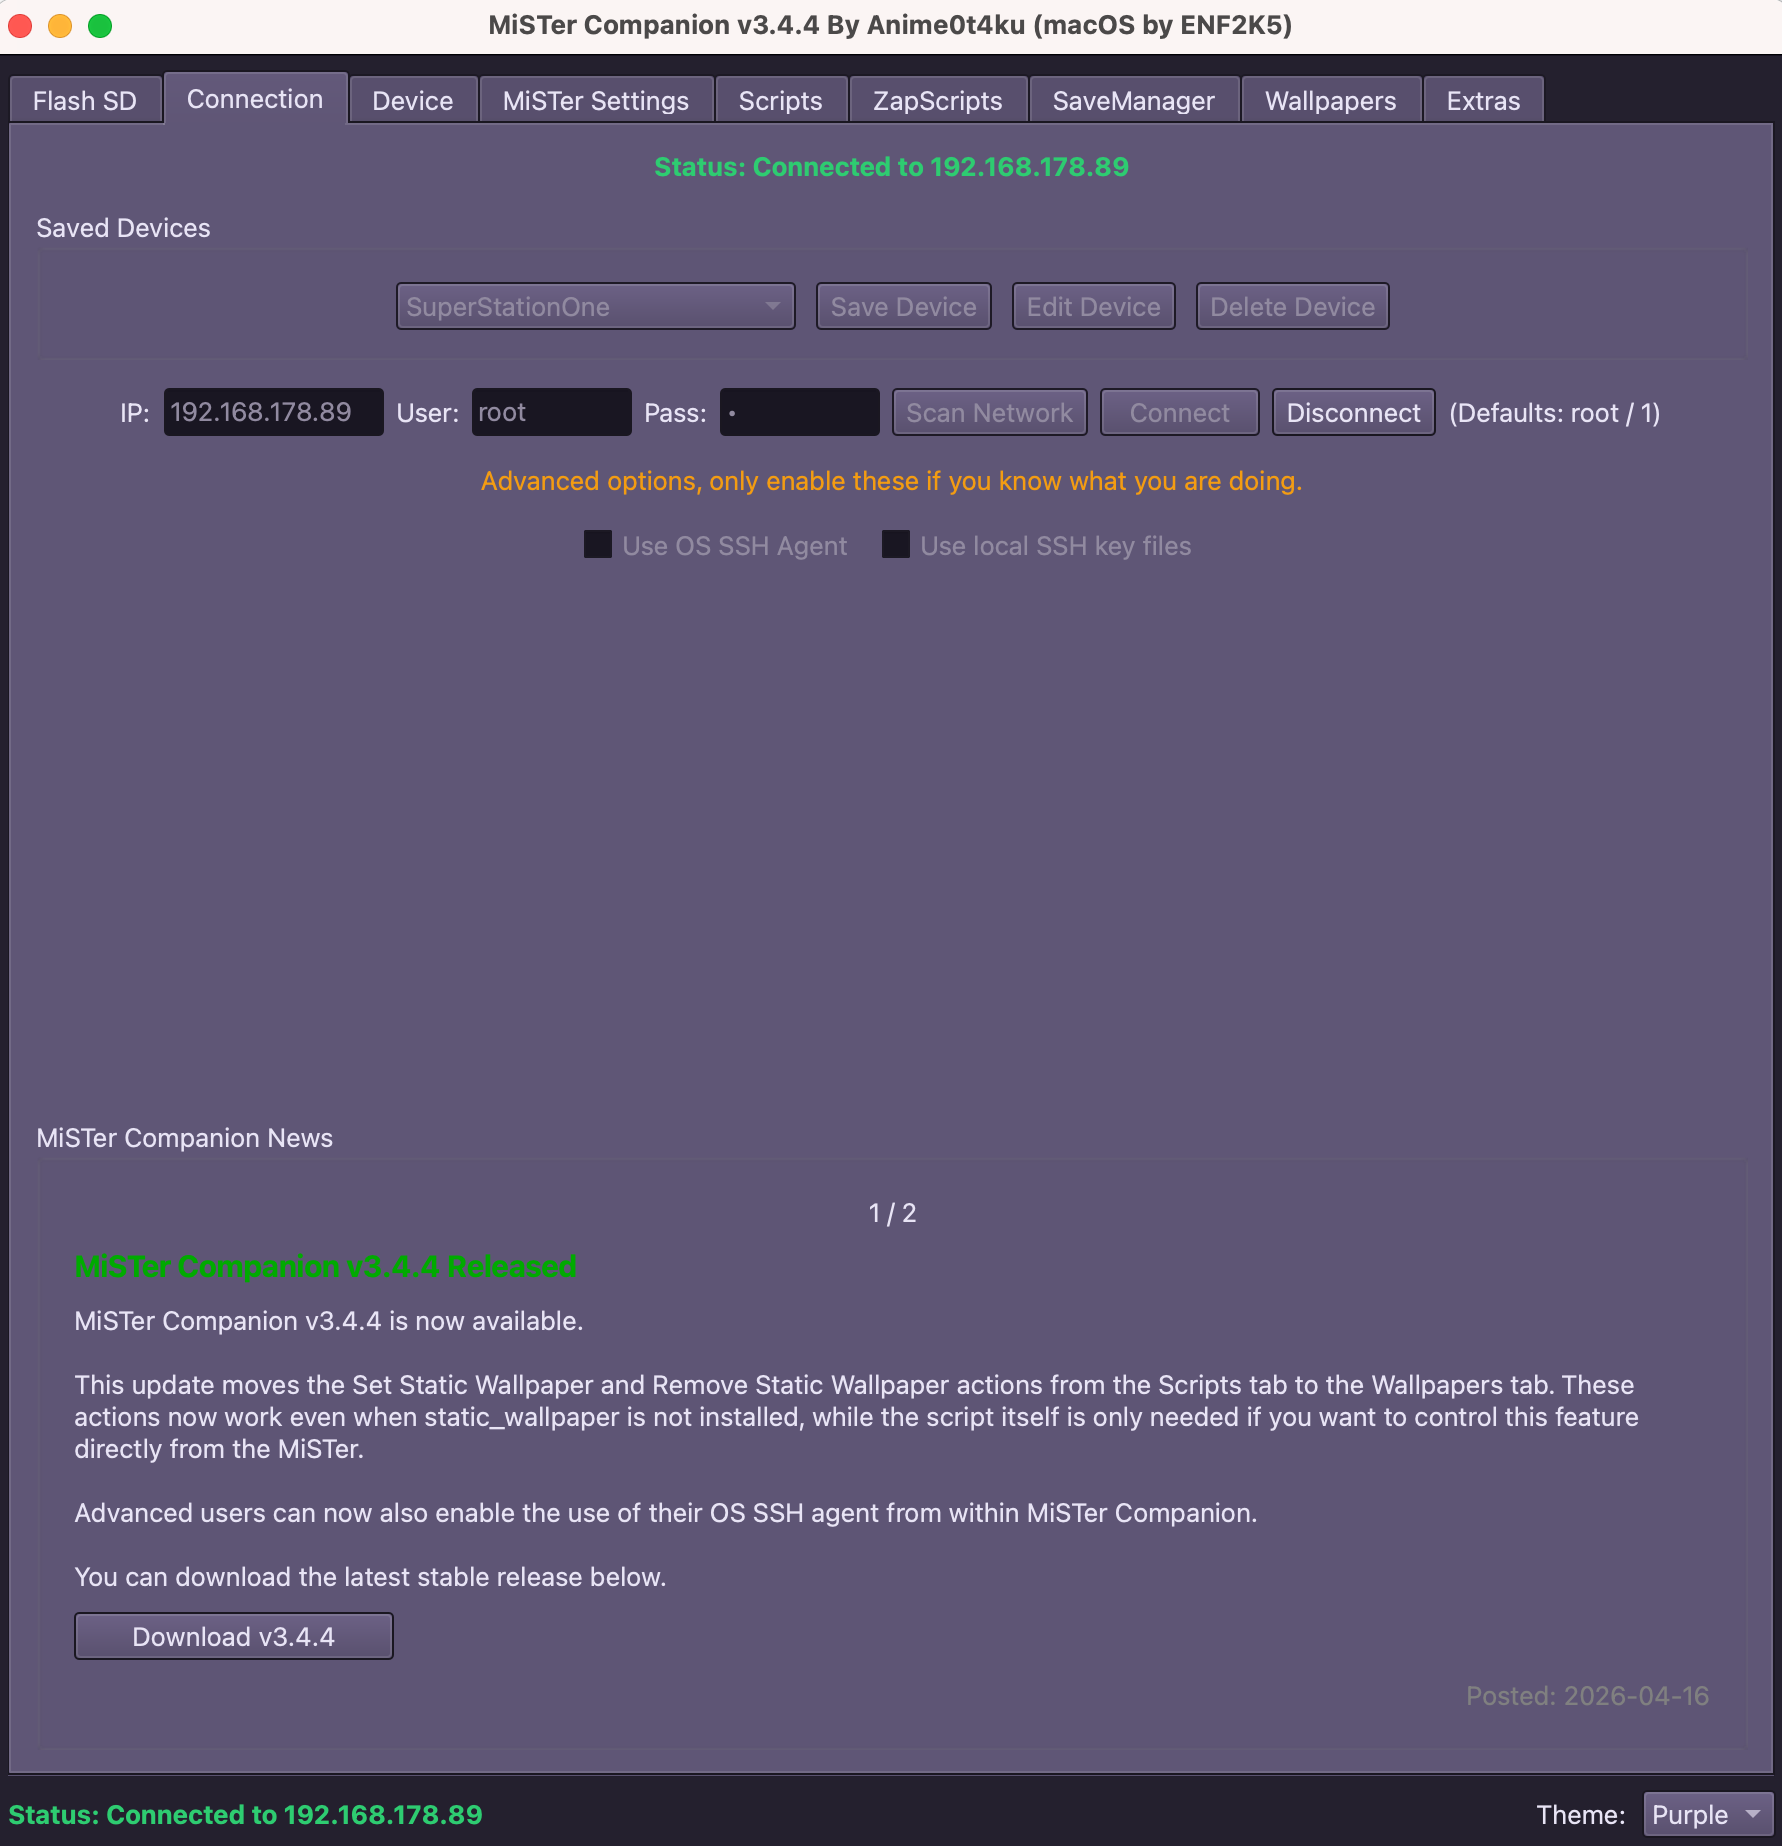
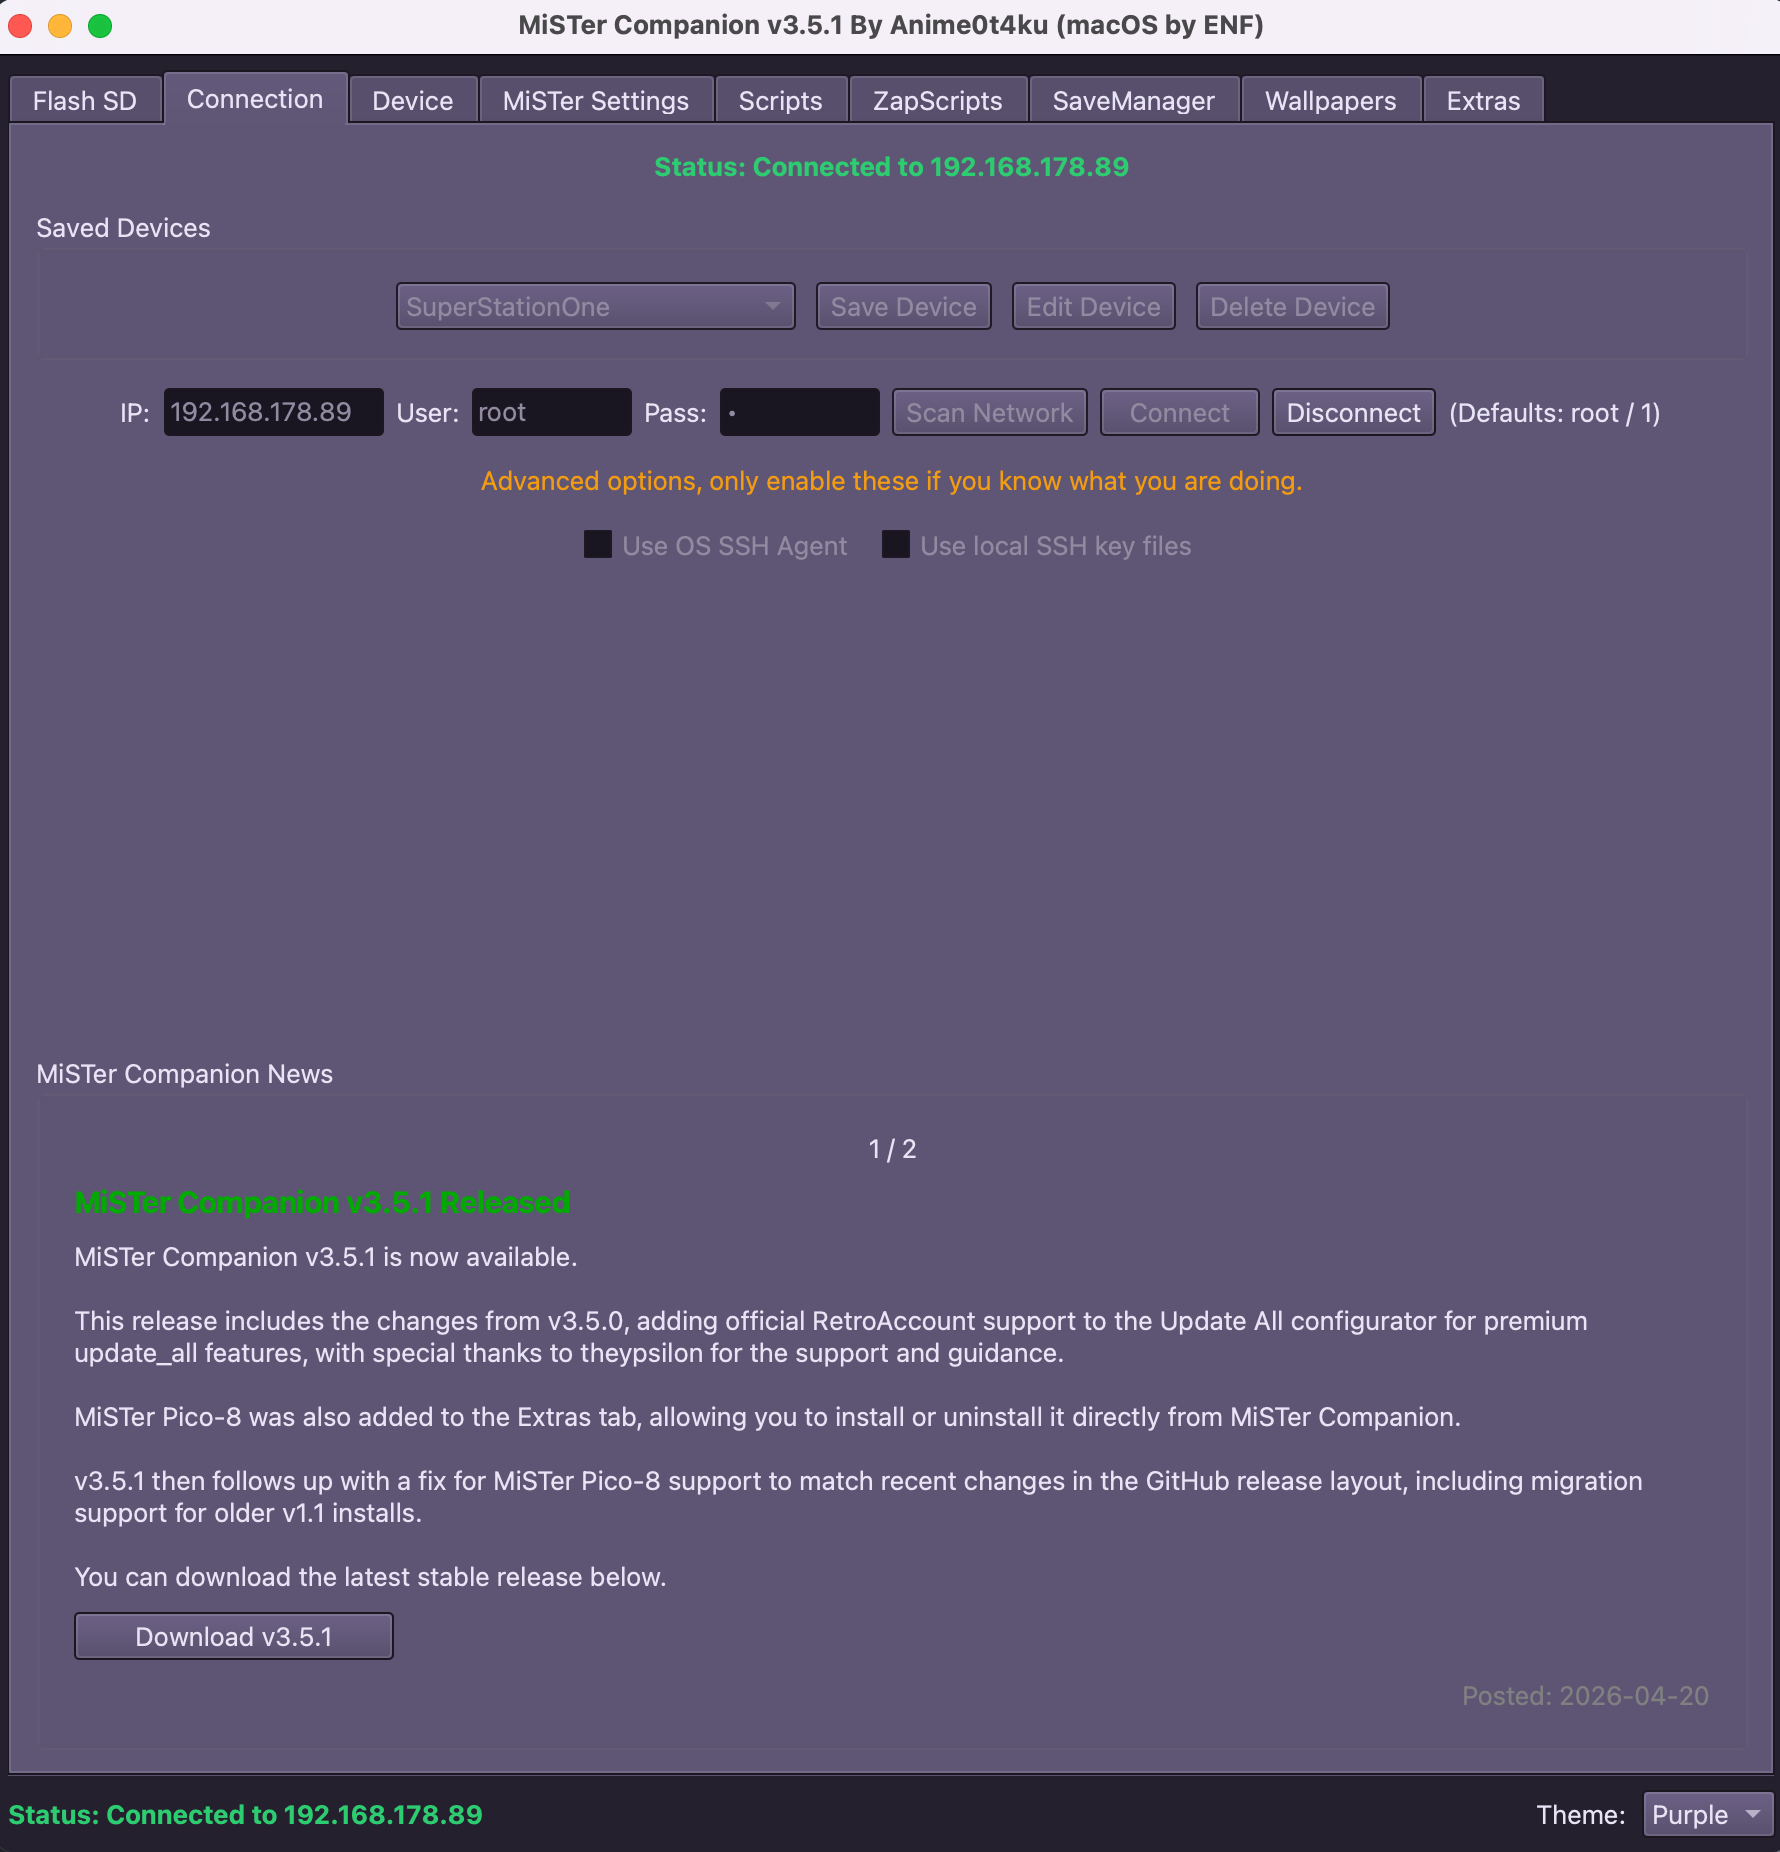
Docs: update screenshot and Python version tested

diff --git a/README.md b/README.md
@@ -88,7 +88,7 @@ Notes:
 
 Requirements:
 
-- Python 3.10 or newer (tested up to 3.14)
+- Python 3.10 or newer (tested up to 3.13)
 - PyQt6, paramiko, requests, websocket-client, psutil
 
 All dependencies install as prebuilt arm64 wheels, so you normally **do not** need Xcode Command Line Tools. If pip falls back to building a package from source, run `xcode-select --install` once and retry.
